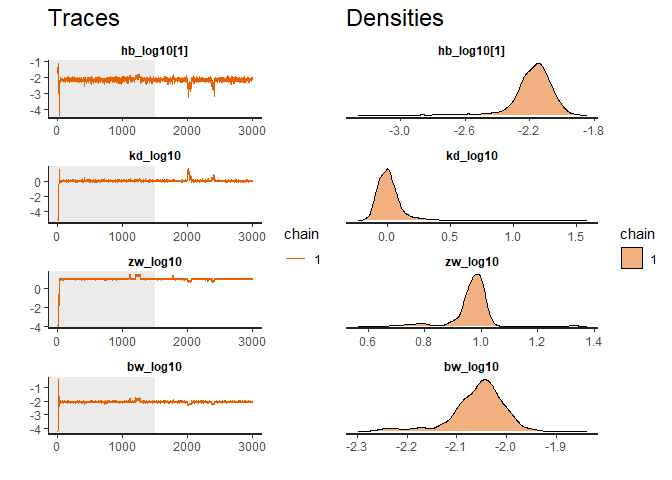
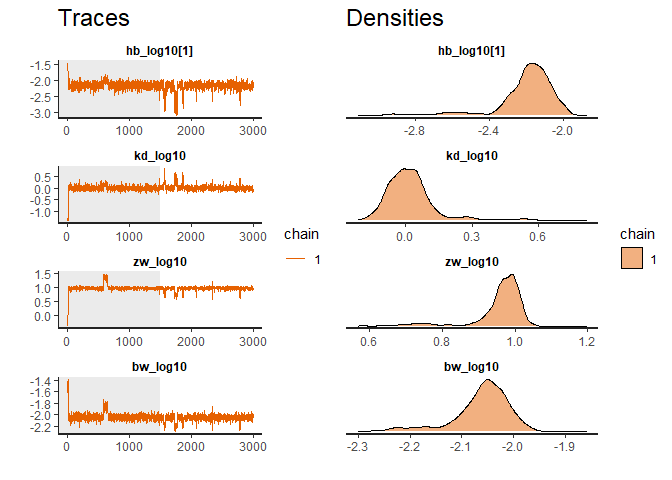
fixing CRAN comments

diff --git a/README.md b/README.md
@@ -8,10 +8,10 @@
 [![Lifecycle:
 stable](https://img.shields.io/badge/lifecycle-stable-green.svg)](https://lifecycle.r-lib.org/articles/stages.html#stable)
 ![GitHub R package
-version](https://img.shields.io/github/r-package/v/bgoussen/BeeGUTS)
+version](https://img.shields.io/github/r-package/v/ibacon-GmbH-Modelling/BeeGUTS)
 [![CRAN
 status](https://www.r-pkg.org/badges/version/BeeGUTS)](https://CRAN.R-project.org/package=BeeGUTS)
-[![R-CMD-check](https://github.com/bgoussen/BeeGUTS/actions/workflows/R-CMD-check.yaml/badge.svg)](https://github.com/bgoussen/BeeGUTS/actions/workflows/R-CMD-check.yaml)
+[![R-CMD-check](https://github.com/ibacon-GmbH-Modelling/BeeGUTS/actions/workflows/R-CMD-check.yaml/badge.svg)](https://github.com/ibacon-GmbH-Modelling/BeeGUTS/actions/workflows/R-CMD-check.yaml)
 <!-- badges: end -->
 
 The goal of BeeGUTS is to analyse the survival toxicity tests performed
@@ -87,8 +87,8 @@ fit <- fitBeeGUTS(lsData, modelType = "SD", nIter = 3000, nChains = 1) # Fit a S
 #> 
 #> SAMPLING FOR MODEL 'GUTS_SD' NOW (CHAIN 1).
 #> Chain 1: 
-#> Chain 1: Gradient evaluation took 0.001757 seconds
-#> Chain 1: 1000 transitions using 10 leapfrog steps per transition would take 17.57 seconds.
+#> Chain 1: Gradient evaluation took 0.00301 seconds
+#> Chain 1: 1000 transitions using 10 leapfrog steps per transition would take 30.1 seconds.
 #> Chain 1: Adjust your expectations accordingly!
 #> Chain 1: 
 #> Chain 1: 
@@ -105,13 +105,10 @@ fit <- fitBeeGUTS(lsData, modelType = "SD", nIter = 3000, nChains = 1) # Fit a S
 #> Chain 1: Iteration: 2700 / 3000 [ 90%]  (Sampling)
 #> Chain 1: Iteration: 3000 / 3000 [100%]  (Sampling)
 #> Chain 1: 
-#> Chain 1:  Elapsed Time: 132.25 seconds (Warm-up)
-#> Chain 1:                161.472 seconds (Sampling)
-#> Chain 1:                293.722 seconds (Total)
+#> Chain 1:  Elapsed Time: 101.544 seconds (Warm-up)
+#> Chain 1:                165.025 seconds (Sampling)
+#> Chain 1:                266.569 seconds (Total)
 #> Chain 1:
-#> Warning: Bulk Effective Samples Size (ESS) is too low, indicating posterior means and medians may be unreliable.
-#> Running the chains for more iterations may help. See
-#> https://mc-stan.org/misc/warnings.html#bulk-ess
 #> Warning: Tail Effective Samples Size (ESS) is too low, indicating posterior variances and tail quantiles may be unreliable.
 #> Running the chains for more iterations may help. See
 #> https://mc-stan.org/misc/warnings.html#tail-ess
@@ -152,16 +149,16 @@ summary(fit) # Gives a summary of the results
 #> Posteriors of the parameters (quantiles) (select with '$Qposteriors'):
 #> 
 #>  parameters      median        Q2.5       Q97.5
-#>       hb[1] 6.81693e-03 2.38802e-03 1.00973e-02
+#>       hb[1] 6.73561e-03 1.98921e-03 1.00686e-02
 #>  parameters      median        Q2.5       Q97.5
-#>          kd 1.00467e+00 7.49301e-01 2.47508e+00
-#>          zw 9.44988e+00 5.56304e+00 1.08377e+01
-#>          bw 8.91085e-03 5.98440e-03 1.07859e-02
+#>          kd 1.01806e+00 7.20743e-01 2.87306e+00
+#>          zw 9.41747e+00 4.98442e+00 1.06524e+01
+#>          bw 8.86067e-03 6.00886e-03 1.04942e-02
 #> 
 #> 
-#>  Maximum Rhat computed (na.rm = TRUE): 1.010767 
-#>  Minimum Bulk_ESS: 69 
-#>  Minimum Tail_ESS: 43 
+#>  Maximum Rhat computed (na.rm = TRUE): 1.034252 
+#>  Minimum Bulk_ESS: 120 
+#>  Minimum Tail_ESS: 73 
 #>  Bulk_ESS and Tail_ESS are crude measures of effecting sampling size for
 #>       bulk and tail quantities respectively. An ESS > 100 per chain can be
 #>       considered as a good indicator. Rhat is an indicator of chains convergence.
@@ -176,8 +173,8 @@ validation <- validate(fit, lsData, fithb = TRUE) # produce a validation of the 
 #> 
 #> SAMPLING FOR MODEL 'GUTS_hb_only' NOW (CHAIN 1).
 #> Chain 1: 
-#> Chain 1: Gradient evaluation took 1.6e-05 seconds
-#> Chain 1: 1000 transitions using 10 leapfrog steps per transition would take 0.16 seconds.
+#> Chain 1: Gradient evaluation took 1.8e-05 seconds
+#> Chain 1: 1000 transitions using 10 leapfrog steps per transition would take 0.18 seconds.
 #> Chain 1: Adjust your expectations accordingly!
 #> Chain 1: 
 #> Chain 1: 
@@ -194,9 +191,9 @@ validation <- validate(fit, lsData, fithb = TRUE) # produce a validation of the 
 #> Chain 1: Iteration: 2700 / 3000 [ 90%]  (Sampling)
 #> Chain 1: Iteration: 3000 / 3000 [100%]  (Sampling)
 #> Chain 1: 
-#> Chain 1:  Elapsed Time: 0.086 seconds (Warm-up)
-#> Chain 1:                0.094 seconds (Sampling)
-#> Chain 1:                0.18 seconds (Total)
+#> Chain 1:  Elapsed Time: 0.108 seconds (Warm-up)
+#> Chain 1:                0.084 seconds (Sampling)
+#> Chain 1:                0.192 seconds (Total)
 #> Chain 1: 
 #> Bayesian Inference performed with Stan.
 #>  MCMC sampling setup (select with '$setupMCMC')
@@ -205,9 +202,9 @@ validation <- validate(fit, lsData, fithb = TRUE) # produce a validation of the 
 #>  Thinning interval: 1 
 #>  Number of chains: 1 
 #> 
-#> Maximum Rhat computed (na.rm = TRUE): 1.008558 
-#>  Minimum Bulk_ESS: 270 
-#>  Minimum Tail_ESS: 337 
+#> Maximum Rhat computed (na.rm = TRUE): 1.00194 
+#>  Minimum Bulk_ESS: 297 
+#>  Minimum Tail_ESS: 427 
 #>  Bulk_ESS and Tail_ESS are crude measures of effecting sampling size for
 #>       bulk and tail quantities respectively. An ESS > 100 per chain can be
 #>       considered as a good indicator. Rhat is an indicator of chains convergence.
@@ -215,8 +212,8 @@ validation <- validate(fit, lsData, fithb = TRUE) # produce a validation of the 
 #>       one can call 'rstan::monitor(beeSurvValidation$hbfit) 
 #> 
 #> Results for hb: 
-#>  parameters      median         Q2.5       Q97.5
-#>          hb 0.002477508 0.0007299983 0.007123733
+#>  parameters      median         Q2.5      Q97.5
+#>          hb 0.002449132 0.0006986576 0.00649062
 #> Note that computing can be quite long (several minutes).
 #>   Tips: To reduce that time you can reduce Number of MCMC chains (default mcmc_size is set to 1000).
 plot(validation) # plot the validation results

diff --git a/NEWS.md b/NEWS.md
@@ -1,6 +1,3 @@
-# BeeGUTS 1.5.1
-* Small changes for CRAN checks
-
 # BeeGUTS 1.5
 * Change of github repository location
 * Performance improvements in fit of Acute datasets through user-defined
